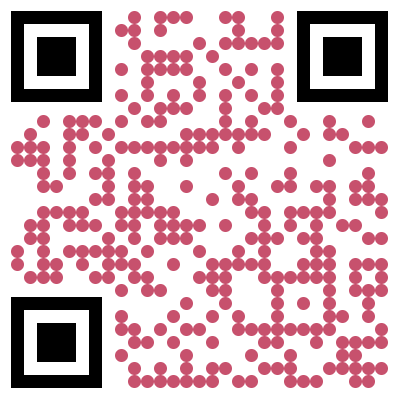
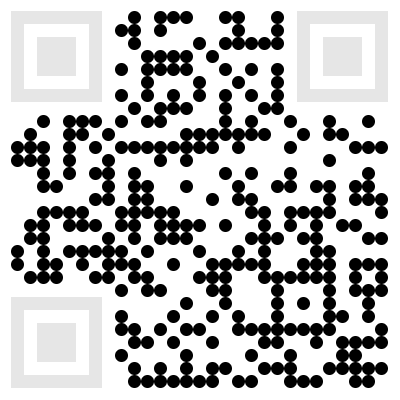
Change style in QR editor panel

diff --git a/src/components/ShapesSettings.jsx b/src/components/ShapesSettings.jsx
@@ -15,7 +15,7 @@ function ShapesSettings({ qrCodeProps, setQrCodeProps }) {
       <div className="qr-shapes-settings">
         <div className="row">
           <div className="settings">
-            <h1>Dots Options</h1>
+            <h1 className="settings-h1">Dots Options</h1>
             <div className="settings-details">
               <RadioGroup
                 classNames={{
@@ -23,7 +23,7 @@ function ShapesSettings({ qrCodeProps, setQrCodeProps }) {
                 }}
                 orientation="horizontal"
                 aria-labelledby="Dots Shapes"
-                description="Select your QR code dots shape"
+                description="Select your QR code dots shape and color"
                 value={qrCodeProps.dotsOptions.type}
                 onValueChange={(value) => {
                   setQrCodeProps({
@@ -44,16 +44,16 @@ function ShapesSettings({ qrCodeProps, setQrCodeProps }) {
                     />
                   </CustomRadio>
                 ))}
+                <DotsColorPicker
+                  qrCodeProps={qrCodeProps}
+                  setQrCodeProps={setQrCodeProps}
+                />
               </RadioGroup>
-              <DotsColorPicker
-                qrCodeProps={qrCodeProps}
-                setQrCodeProps={setQrCodeProps}
-              />
             </div>
           </div>
-
+          <div className="horizontal-divider"></div>
           <div className="settings">
-            <h1>Corner Squares Options</h1>
+            <h1 className="settings-h1">Corner Squares Options</h1>
             <div className="settings-details">
               <RadioGroup
                 classNames={{
@@ -61,7 +61,7 @@ function ShapesSettings({ qrCodeProps, setQrCodeProps }) {
                 }}
                 orientation="horizontal"
                 aria-labelledby="Dots Shapes"
-                description="Select your QR code corner squares shape"
+                description="Select your QR code corner squares shape and color"
                 value={qrCodeProps.cornersSquareOptions.type}
                 onValueChange={(value) => {
                   setQrCodeProps({
@@ -82,18 +82,20 @@ function ShapesSettings({ qrCodeProps, setQrCodeProps }) {
                     />
                   </CustomRadio>
                 ))}
-              </RadioGroup>
               <CornerSqaurColorPicker
                 qrCodeProps={qrCodeProps}
                 setQrCodeProps={setQrCodeProps}
               />
+              </RadioGroup>
             </div>
           </div>
         </div>
 
         <div className="row">
+          <div className="horizontal-divider"></div>
+
           <div className="settings">
-            <h1>Corner Dots Options</h1>
+            <h1 className="settings-h1">Corner Dots Options</h1>
             <div className="settings-details">
               <RadioGroup
                 classNames={{
@@ -101,7 +103,7 @@ function ShapesSettings({ qrCodeProps, setQrCodeProps }) {
                 }}
                 orientation="horizontal"
                 aria-labelledby="Dots Shapes"
-                description="Select your QR code corner dots shape"
+                description="Select your QR code corner dots shape and color"
                 value={qrCodeProps.cornersDotOptions.type}
                 onValueChange={(value) => {
                   setQrCodeProps({
@@ -122,15 +124,17 @@ function ShapesSettings({ qrCodeProps, setQrCodeProps }) {
                     />
                   </CustomRadio>
                 ))}
-              </RadioGroup>
               <CornerDotColorPicker
                 qrCodeProps={qrCodeProps}
                 setQrCodeProps={setQrCodeProps}
               />
+              </RadioGroup>
             </div>
           </div>
+          <div className="horizontal-divider"></div>
+
           <div className="settings">
-            <h1>Background Color</h1>
+            <h1 className="settings-h1">Background Color</h1>
             <div className="settings-details">
               <BgColorPicker
                 qrCodeProps={qrCodeProps}

diff --git a/src/containers/Creator.jsx b/src/containers/Creator.jsx
@@ -1,4 +1,4 @@
-import React, {  useState } from "react";
+import React, { useState } from "react";
 import {
   AiOutlineQrcode,
   AiOutlineFormatPainter,
@@ -10,7 +10,7 @@ import {
   WifiForm,
   SelectType,
   DynamicQRCode,
-  ColorPickers,
+  ShapesSettings,
 } from "../components";
 import {
   AccordionItem,
@@ -34,7 +34,7 @@ function Creator() {
       <div className="qr-generator ">
         <div className="qr-editor">
           <div className="left-side">
-            <Accordion defaultExpandedKeys={["2"]} variant="light">
+            <Accordion defaultExpandedKeys={["1"]} variant="light">
               <AccordionItem
                 key="1"
                 indicator={<AiOutlineQrcode />}
@@ -59,14 +59,10 @@ function Creator() {
                 subtitle="Customize your QR code to make it unique"
                 title="Customization"
               >
-                <ColorPickers
+                <ShapesSettings
                   qrCodeProps={qrCodeProps}
                   setQrCodeProps={setQrCodeProps}
                 />
-                <div className="qrcode-shapes">
-                  <h1>Shapes</h1>
-                  
-                </div>
               </AccordionItem>
               <AccordionItem
                 indicator={<AiOutlinePaperClip />}
@@ -75,24 +71,17 @@ function Creator() {
                 subtitle="Add an icon to your QR code to make it extra special"
                 title="QR Icon"
               >
-                <div className="customize-container">
-                  <Checkbox
-                    isSelected={qrCodeProps.margin}
-                    onValueChange={(value) => {
-                      setQrCodeProps({ ...qrCodeProps, margin: value });
-                    }}
-                  >
-                    Include Margin
-                  </Checkbox>
-                  <Checkbox
-                    isSelected={includeImage}
-                    onValueChange={(value) => {
-                      setIncludeImage(value);
-                    }}
-                  >
-                    QR Code Icon
-                  </Checkbox>
-                  {includeImage && <p>dsadasasddsasad</p>}
+                <div
+                  style={{
+                    display: "flex",
+                    justifyContent: "center",
+                    alignItems: "center",
+                  }}
+                  className="customize-container"
+                >
+                  <h1 style={{ color: "var(--color-primary)" }}>
+                    Coming Soon..
+                  </h1>
                 </div>
               </AccordionItem>
             </Accordion>

diff --git a/src/index.css b/src/index.css
@@ -5,7 +5,7 @@
 
 :root {
   --font-quiksand: "Quicksand", sans-serif;
-  --color-primary: #c7516d;
+  --color-primary: #8F5CFC;
   --color-secondary: #0f1841;
 }
 * {
@@ -133,7 +133,7 @@
   flex-direction: column;
   overflow-y: scroll;
   scrollbar-width: thin;
-  white-space: nowrap,
+  white-space: nowrap;
 }
 .customization-panel {
   margin-top: 1rem;
@@ -231,8 +231,29 @@
 .hide-radio-dot label span {
   display: none !important;
 }
+.picker-container {
+  width: 115.2px;
+  height: 115.2px;
+  display: flex;
+  justify-content: center;
+  align-items: center;
+}
+.horizontal-divider{
+  width: 100%;
+  height: 1px;
+  background: #ffffff;
+  margin:0.5rem 0px 0.5rem 0px ;
+  border: dashed 1px #eeeeee;
+}
+.settings-h1{
+  color: var(--color-primary);
+  font-weight: 600;
+}
 @media (max-width: 1080px) {
   .right-buttons {
-    flex-direction: column;
+    flex-direction: column-reverse;
+  }
+  .right-buttons button {
+    width: 100% !important;
   }
 }

diff --git a/src/components/DotsColorPicker.jsx b/src/components/DotsColorPicker.jsx
@@ -5,9 +5,9 @@ function DotsColorPicker({ qrCodeProps, setQrCodeProps }) {
   return (
     <>
       <ColorPicker
-        style={{ width: "100%" }}
+        style={{ width: "100%", border: "none", marginTop:".75rem" }}
         trigger="hover"
-        
+        panelRender
         onChangeComplete={(color) => {
           setQrCodeProps({
             ...qrCodeProps,
@@ -17,6 +17,7 @@ function DotsColorPicker({ qrCodeProps, setQrCodeProps }) {
             },
           });
         }}
+        placement="bottom"
         defaultValue={qrCodeProps.dotsOptions.color}
         showText={(color) => <span>{color.toHexString()}</span>}
       />

diff --git a/src/components/CornerSqaurColorPicker.jsx b/src/components/CornerSqaurColorPicker.jsx
@@ -5,7 +5,7 @@ function CornerSqaurColorPicker({ qrCodeProps, setQrCodeProps }) {
   return (
     <>
       <ColorPicker
-        style={{ width: "100%" }}
+        style={{ width: "100%", border: "none", marginTop: ".75rem" }}
         trigger="hover"
         onChangeComplete={(color) => {
           setQrCodeProps({
@@ -16,6 +16,7 @@ function CornerSqaurColorPicker({ qrCodeProps, setQrCodeProps }) {
             },
           });
         }}
+        placement="bottom"
         defaultValue={qrCodeProps.cornersSquareOptions.color}
         showText={(color) => <span>{color.toHexString()}</span>}
       />

diff --git a/src/components/CornerDotColorPicker.jsx b/src/components/CornerDotColorPicker.jsx
@@ -5,7 +5,7 @@ function CornerDotColorPicker({ qrCodeProps, setQrCodeProps }) {
   return (
     <>
       <ColorPicker
-        style={{ width: "100%" }}
+        style={{ width: "100%", border: "none", marginTop: ".75rem" }}
         trigger="hover"
         onChangeComplete={(color) => {
           setQrCodeProps({
@@ -16,6 +16,7 @@ function CornerDotColorPicker({ qrCodeProps, setQrCodeProps }) {
             },
           });
         }}
+        placement="bottom"
         defaultValue={qrCodeProps.cornersDotOptions.color}
         showText={(color) => <span>{color.toHexString()}</span>}
       />

diff --git a/src/components/index.js b/src/components/index.js
@@ -7,4 +7,4 @@ export { default as CornerSqaurColorPicker } from "./CornerSqaurColorPicker";
 export { default as CornerDotColorPicker } from "./CornerDotColorPicker";
 export { default as BgColorPicker } from "./BgColorPicker";
 export { default as DynamicQRCode } from "./DynamicQRCode";
-export { default as ColorPickers } from "./ShapesSettings";
+export { default as ShapesSettings } from "./ShapesSettings";

diff --git a/src/components/BgColorPicker.jsx b/src/components/BgColorPicker.jsx
@@ -5,7 +5,8 @@ function BgColorPicker({ qrCodeProps, setQrCodeProps }) {
   return (
     <>
       <ColorPicker
-        style={{ width: "100%" }}
+        style={{ width: "100%", border: "none"  }}
+        placement="bottom"
         trigger="hover"
         onChangeComplete={(color) => {
           setQrCodeProps({ ...qrCodeProps, bgColor: "#" + color.toHex() });

diff --git a/src/data/data.js b/src/data/data.js
@@ -135,7 +135,7 @@ const dotTypes = [
     label: "Classy",
     path: "Images/Shapes/Dots/Classy.png",
   },
-  {
+  { 
     key: "classy-rounded",
     label: "Classy Rounded",
     path: "Images/Shapes/Dots/ClassyRounded.png",

diff --git a/tailwind.config.js b/tailwind.config.js
@@ -15,7 +15,7 @@ export default {
       themes: {
         light: {
           colors: {
-            primary: "#C7516D",
+            primary: "#8F5CFC",
           },
         },
       },

diff --git a/src/App.jsx b/src/App.jsx
@@ -6,7 +6,7 @@ import { ConfigProvider } from "antd";
 
 const theme = {
   token: {
-    colorPrimary: "#C7516D",
+    colorPrimary: "#8F5CFC",
   },
 };
 
